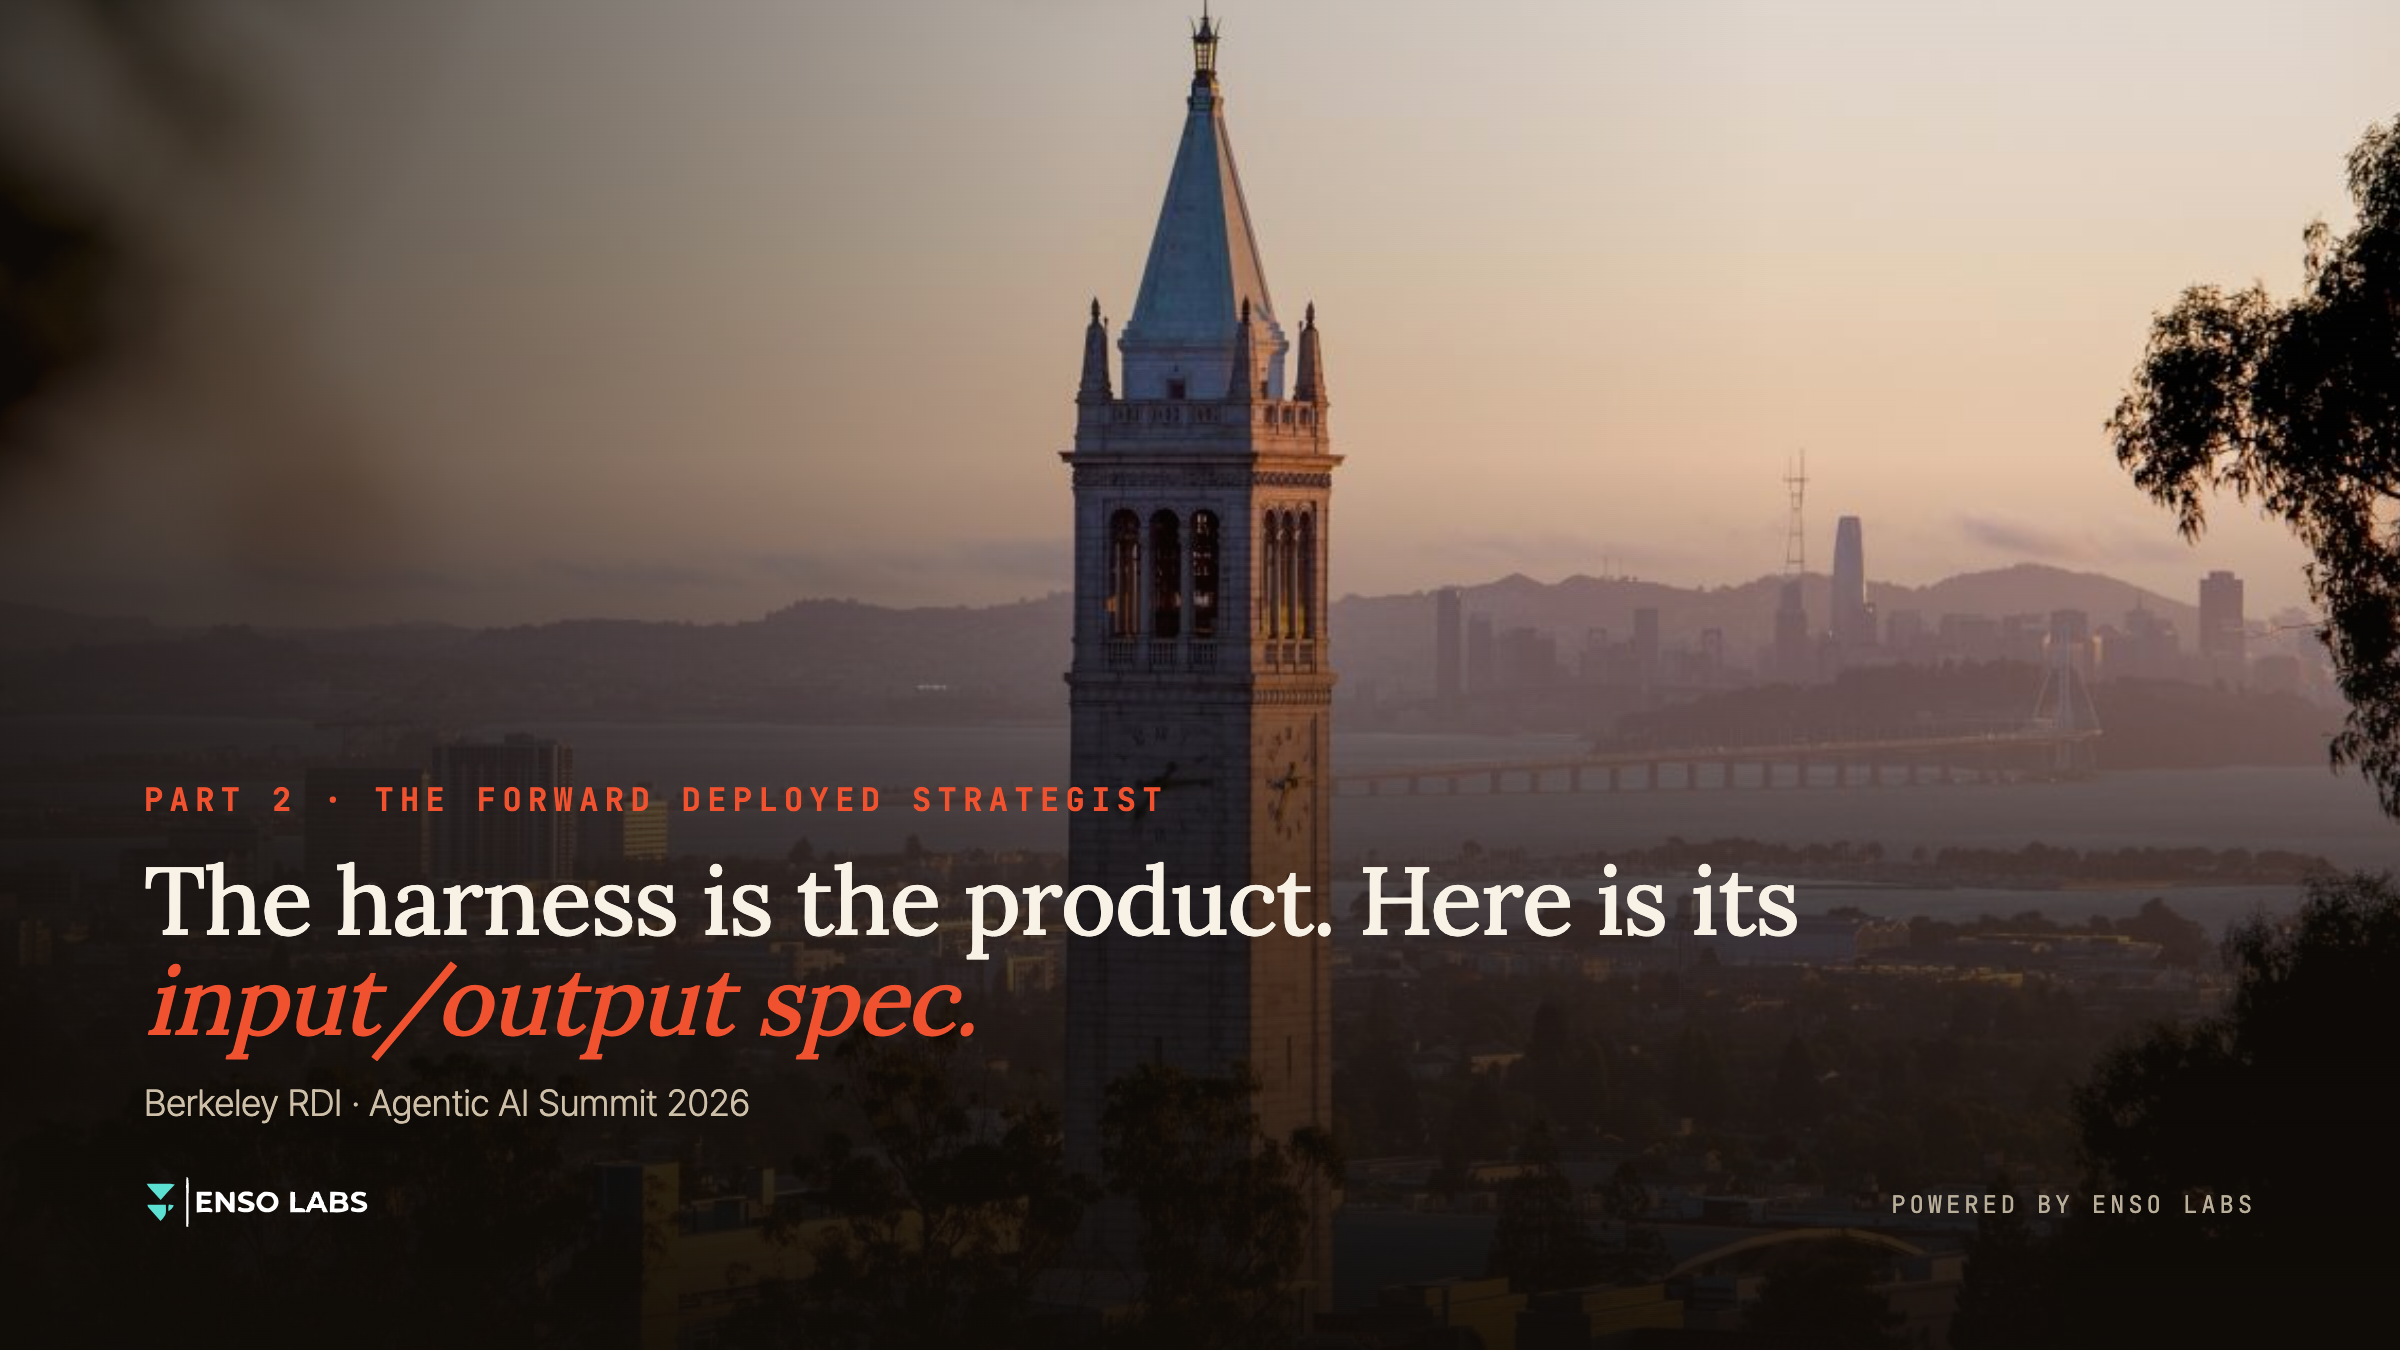
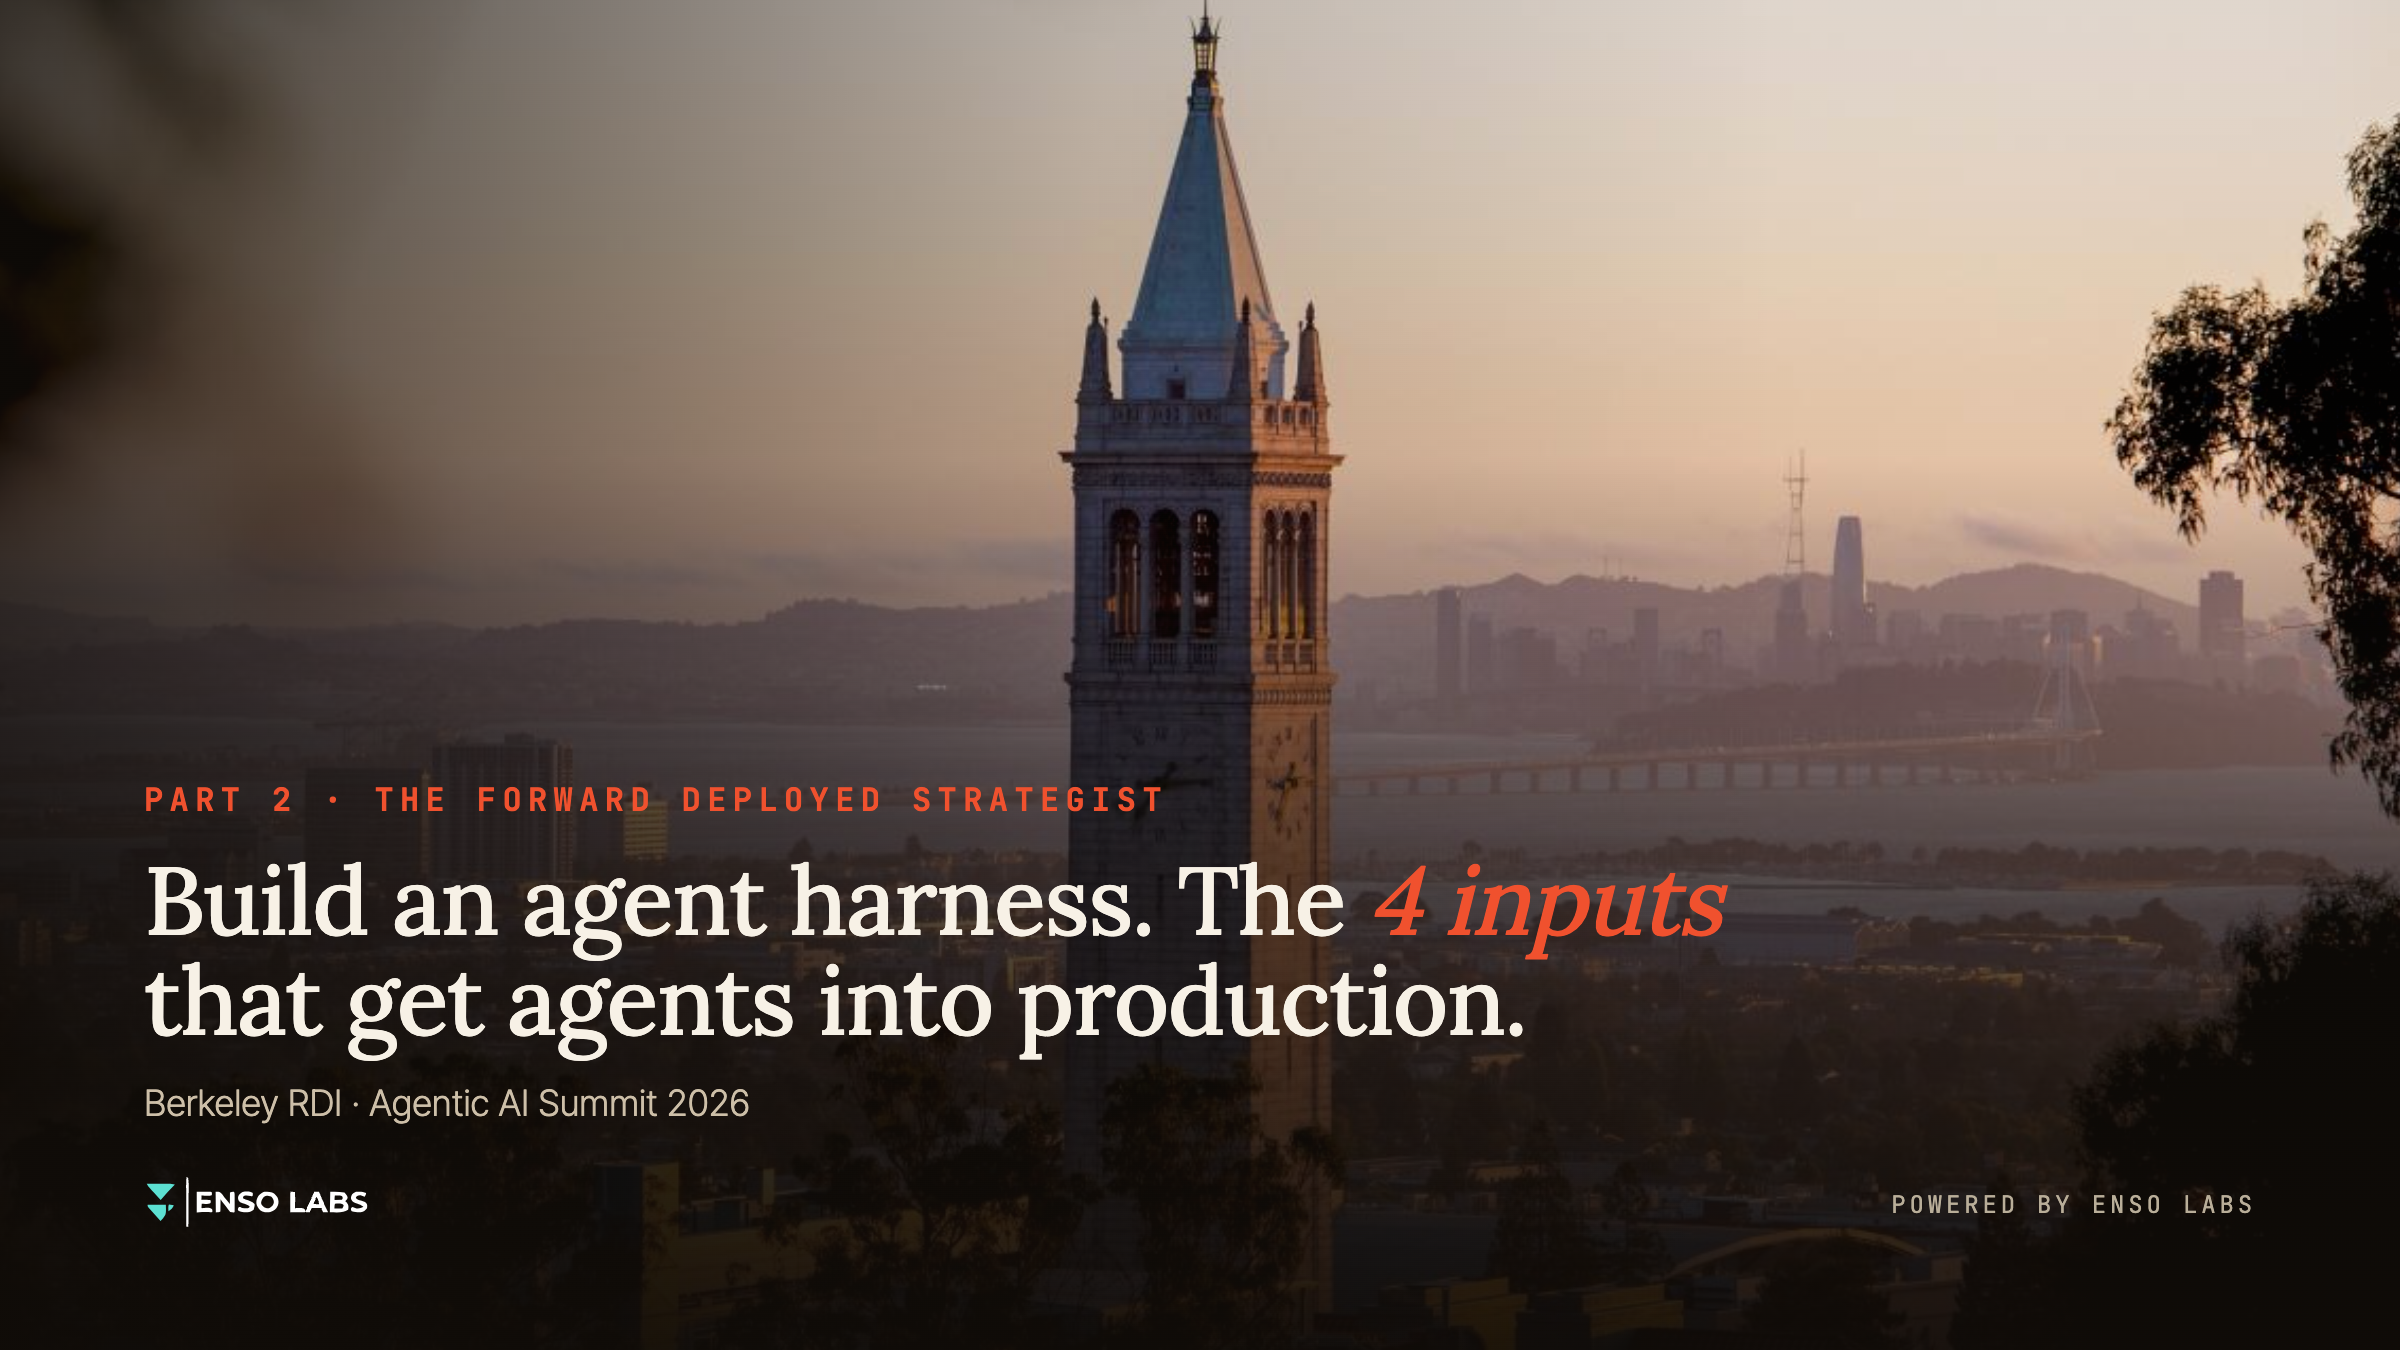
insight(part 2): regenerate hero + OG to match the new title (#56)
The card still carried the old headline while the page title had changed,
so the LinkedIn preview contradicted itself.

Changed region(s): [[0.0625, 0.6222, 0.75, 0.8089]]

diff --git a/scripts/generate-p2-hero-og.js b/scripts/generate-p2-hero-og.js
@@ -36,7 +36,7 @@ const page = (w, h, hSize) => `
   <div class="ph"></div><div class="sc"></div><div class="sc2"></div>
   <div class="c">
     <p class="k fm">Part 2 · The Forward Deployed Strategist</p>
-    <h1 class="fd">The harness is the product. Here is its <em>input/output spec.</em></h1>
+    <h1 class="fd">Build an agent harness. The <em>4 inputs</em> that get agents into production.</h1>
     <p class="sub">Berkeley RDI · Agentic AI Summit 2026</p>
     <div class="foot">
       <span class="enso">${logoWhite(Math.round(hSize * 0.6))}</span>
